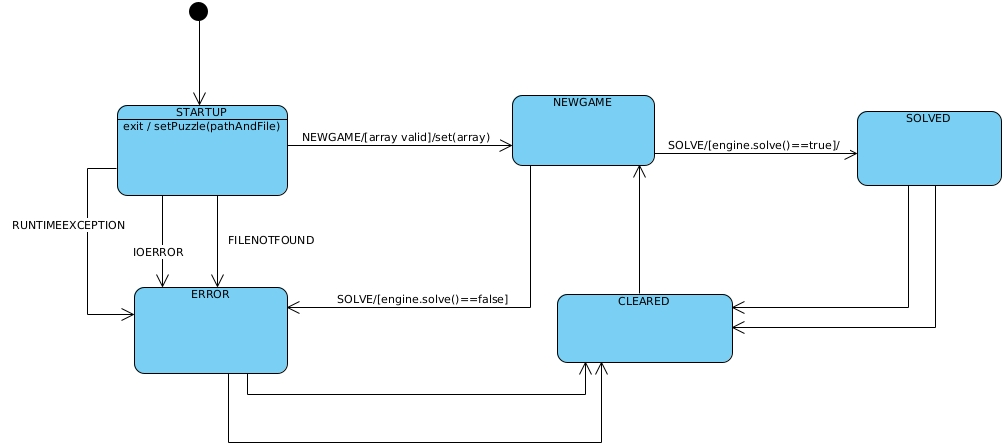
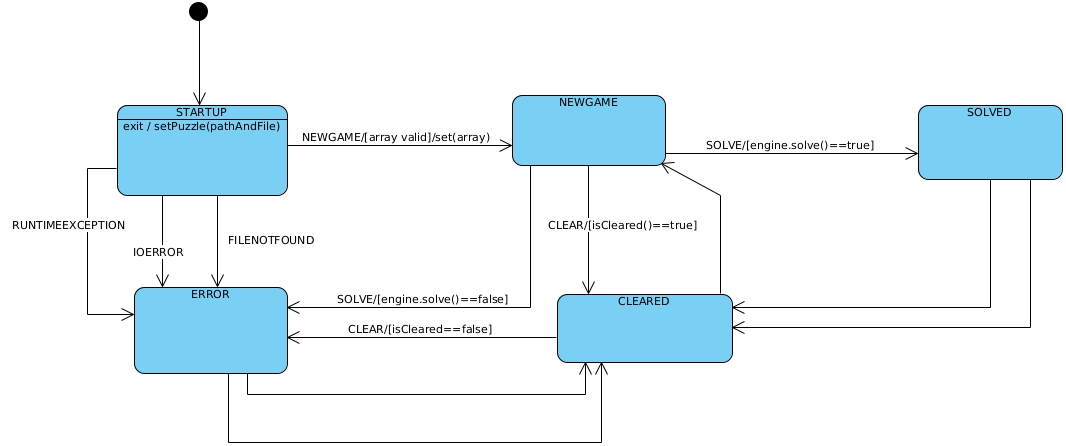
03-10-24-00

diff --git a/SudokuView.java b/SudokuView.java
@@ -73,6 +73,17 @@ public class SudokuView extends GenericJFrame implements Subscriber{
    //
    //
    //
+   private void clearPuzzleDisplay(){
+      for(int i = 0; i < TOTAL; ++i){
+         this._buttonArray[i].setText("");
+         Font f = new Font("Serif",Font.BOLD, 36);
+         this._buttonArray[i].setFont(f);
+      }
+   }
+
+   //
+   //
+   //
    private void displayManualSudokuEntry(){
       //System.out.println("Manual Enter");
       //this._manualEntryView = new SudokuManualEntryView("WTF?!");
@@ -185,6 +196,11 @@ public class SudokuView extends GenericJFrame implements Subscriber{
       }
       else if(state.toUpperCase().equals("ERROR")){
          clear.setEnabled(true); newGame.setEnabled(true);
+      }
+      else if(state.toUpperCase().equals("CLEARED")){
+         //What will eventually happen...
+         newGame.setEnabled(true);
+         System.out.println(state);
       }
    }
 
@@ -303,6 +319,11 @@ public class SudokuView extends GenericJFrame implements Subscriber{
       }
    }
 
+   //
+   //
+   //
+   private void updateValues(int[][] block){}
+
 
    ///////////////////////Interface Methods///////////////////////////
    ///////////////////////Subscriber Interface////////////////////////
@@ -318,7 +339,18 @@ public class SudokuView extends GenericJFrame implements Subscriber{
       try{
          SudokuState state = (SudokuState)o;
          String sState = state.state().toUpperCase();
-         if(sState.equals("NEWGAME")){
+         if(sState.equals("CLEARED")){
+            //First, need to clear out the entries...
+            this.clearPuzzleDisplay();
+            if(state.block() != null){
+               this.updateValues(state.block());
+            }
+            else if(state.singleBlock() != null){
+               this.updateValues(state.singleBlock());
+            }
+            else if(state.singleBlock() != null){}
+         }
+         else if(sState.equals("NEWGAME")){
             if(state.block() != null){
                this.updateValues(state.block());
             }

diff --git a/SudokuEngine.java b/SudokuEngine.java
@@ -73,6 +73,23 @@ public class SudokuEngine{
    //
    //
    //
+   public boolean clearSudoku(){
+      boolean clearedWorked = true;
+      this._block = null;
+      this._block = new SudokuBlock[ROWS][COLS];
+      for(int i = 0; i < ROWS; ++i){
+         for(int j = 0; j < COLS; ++j){
+            this._block[i][j] = new SudokuBlock();
+            this._block[i][j].setIndex(i,j);
+            clearedWorked &= (this._block[i][j] != null);
+         }
+      }
+      return clearedWorked;
+   }
+
+   //
+   //
+   //
    public SudokuBlock[][] getBlock(){
       SudokuBlock[][] blk = new SudokuBlock[ROWS][COLS];
       for(int i = 0; i < ROWS; ++i){
@@ -194,3 +211,4 @@ public class SudokuEngine{
       return isSolved;
    }
 }
+//////////////////////////////////////////////////////////////////////

diff --git a/Sudoku2.java b/Sudoku2.java
@@ -76,7 +76,9 @@ public class Sudoku2 implements SudokuInterface{
          if(this._state == State.NEWGAME){
             state = new String("NEWGAME");
          }
-         else if(this._state == State.CLEARED){}
+         else if(this._state == State.CLEARED){
+            state = new String("CLEARED");
+         }
          else if(this._state == State.SOLVED){
             state = new String("SOLVED");
          }
@@ -168,7 +170,13 @@ public class Sudoku2 implements SudokuInterface{
    //
    //
    public void clear(){
-      System.out.println("CLEAR");
+      if(this._engine.clearSudoku()){
+         this._state = State.CLEARED;
+         this.notifySubscribers();
+      }
+      else{
+         this._state = State.ERROR;
+      }
    }
 
    //
